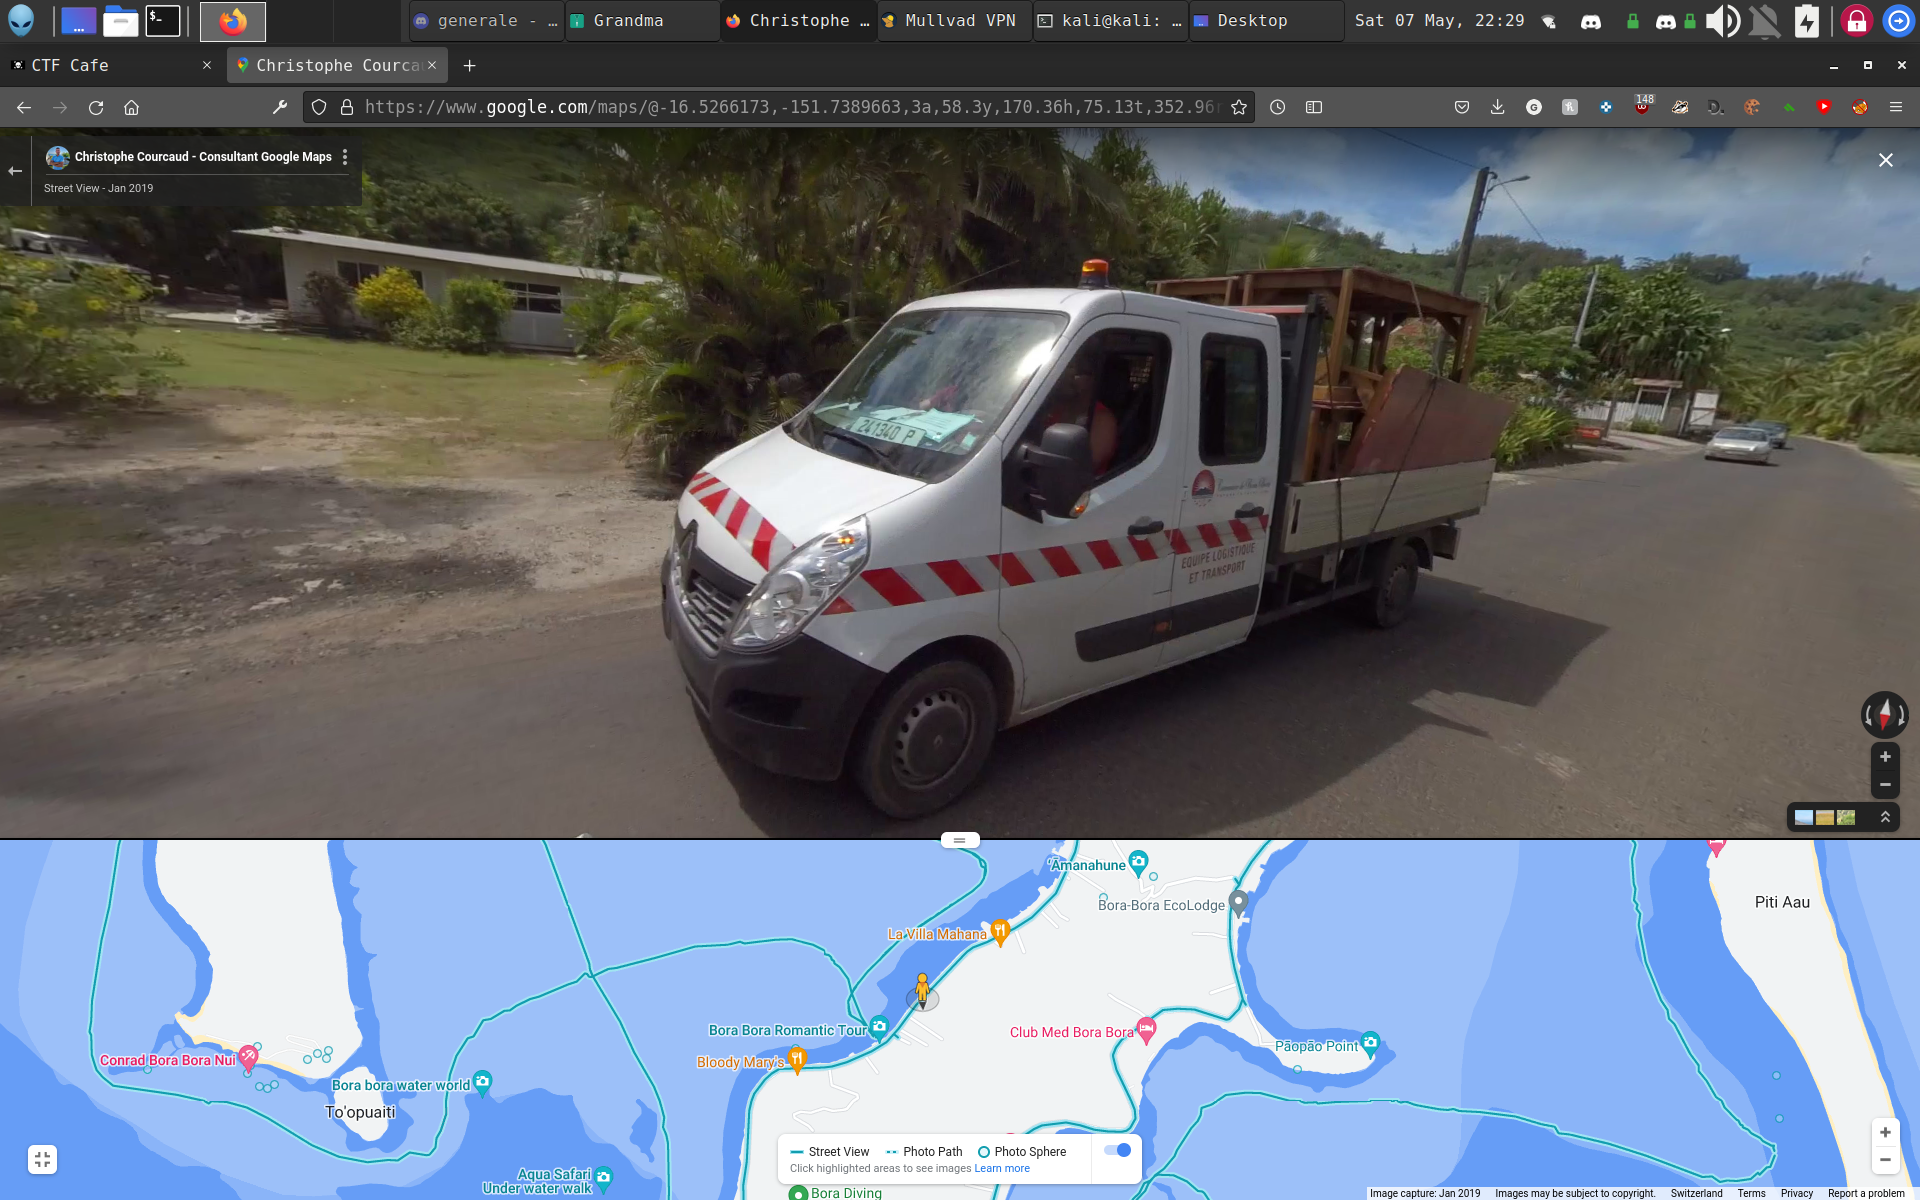
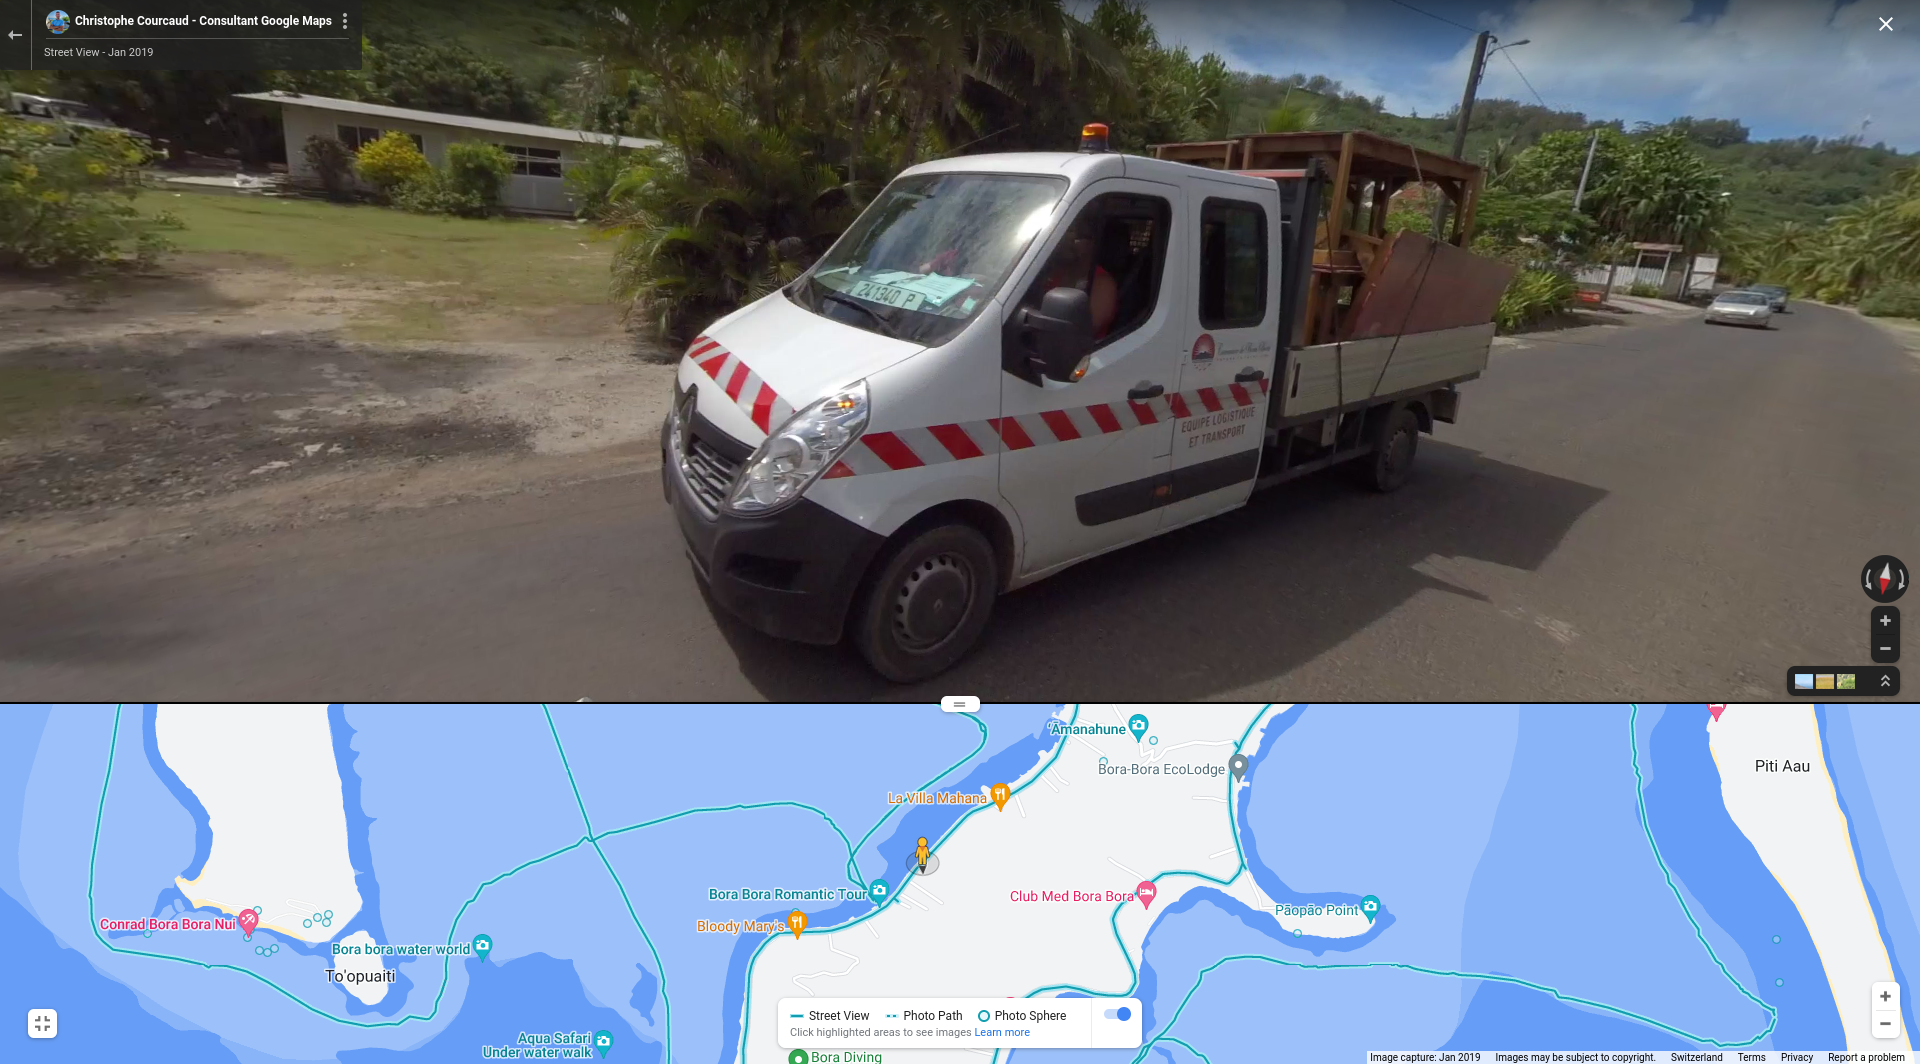
CH avis and CH chatgram updated

diff --git a/writeups/chat-gram.md b/writeups/chat-gram.md
@@ -1,0 +1,22 @@
+# Chat  gram
+
+<p align="center"><img src="https://github.com/greedpanda/ez-ctf-2022/blob/main/assets/challenge-cards/Chat-gram.jpg"/></p>
+
+## Writeup
+
+The simple Google reverse image search of the provided image, shown below, this time did not provide any hook.
+
+<p align="center"><img src="https://github.com/greedpanda/ez-ctf-2022/blob/main/assets/chat-gram.jpg"/></p>
+
+Hence, looking at the image more closely, it is possible to see that a ferris wheel is present over the lake. Searching in Google `Chatgram ferris wheel lake` indicates an amusement park called Foy's lake amusement world, in a city called `Chittagong` in Bangladesh.
+
+<p align="center"><img src="https://github.com/greedpanda/ez-ctf-2022/blob/main/assets/chatgram0.png"/></p>
+
+Using Google Street View along the lake it is possible to locate the "gentleman" and the two characters: Donald Duck and a frog.
+
+<p align="center"><img src="https://github.com/greedpanda/ez-ctf-2022/blob/main/assets/chatgram-flag.png"/></p>
+
+## Flag
+
+    EZ-CTF{Donald_Frog}
+    

diff --git a/README.md b/README.md
@@ -24,9 +24,9 @@ In the following challenge overview writeup links will be provided for the chall
 - American (150pt)
 - Hue is This? (170pt)
 - Alien Dream (100pt)
-- [**Limo (190pt)**]()
-- [**Follow Avis (280pt)**]()
-- [**Chat  gram (420pt)**]()
+- [**Limo (190pt)**](https://github.com/greedpanda/ez-ctf-2022/blob/main/writeups/limo.md)
+- [**Follow Avis (280pt)**](https://github.com/greedpanda/ez-ctf-2022/blob/main/writeups/follow-avis.md)
+- [**Chat  gram (420pt)**](https://github.com/greedpanda/ez-ctf-2022/blob/main/writeups/chat-gram.md)
 ### Crypto
 - [**More Sense (60pt)**]()
 - McFly (125pt)

diff --git a/writeups/follow-avis.md b/writeups/follow-avis.md
@@ -1,0 +1,14 @@
+# Follow Avis
+
+<p align="center"><img src="https://github.com/greedpanda/ez-ctf-2022/blob/main/assets/challenge-cards/Follow-Avis.jpg"/></p>
+
+## Writeup
+
+As the description specifies, it is just necessary to go forward in the Google Street View from the starting point. After a little while it is possible to locate the plate on the windshield of a truck on the opposite lane.
+
+<p align="center"><img src="https://github.com/greedpanda/ez-ctf-2022/blob/main/assets/Avis-flag.png"/></p>
+
+## Flag
+
+    EZ-CTF{241340_P}
+    
